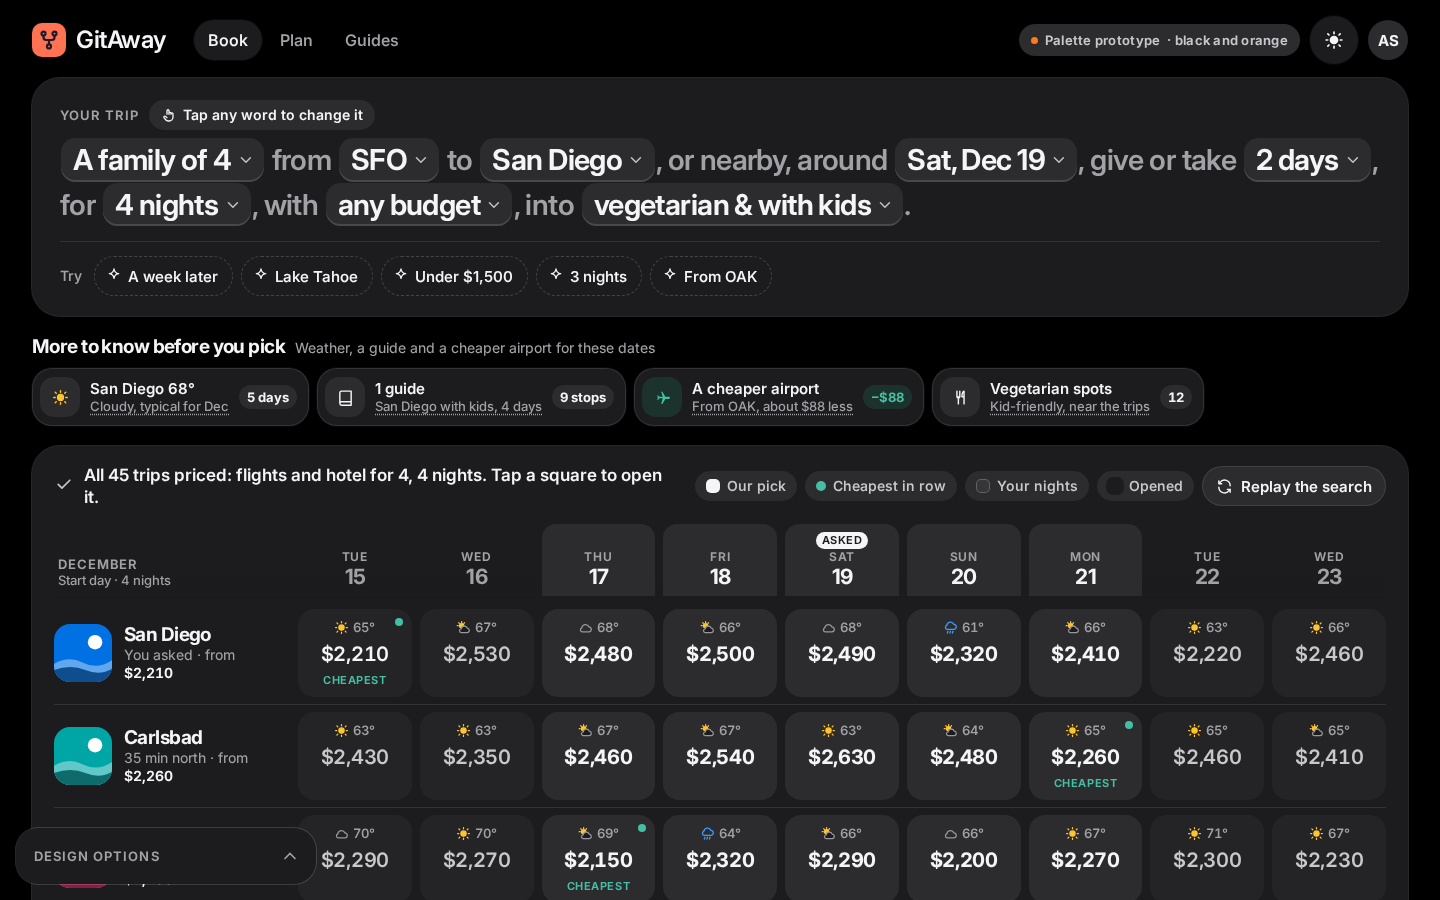
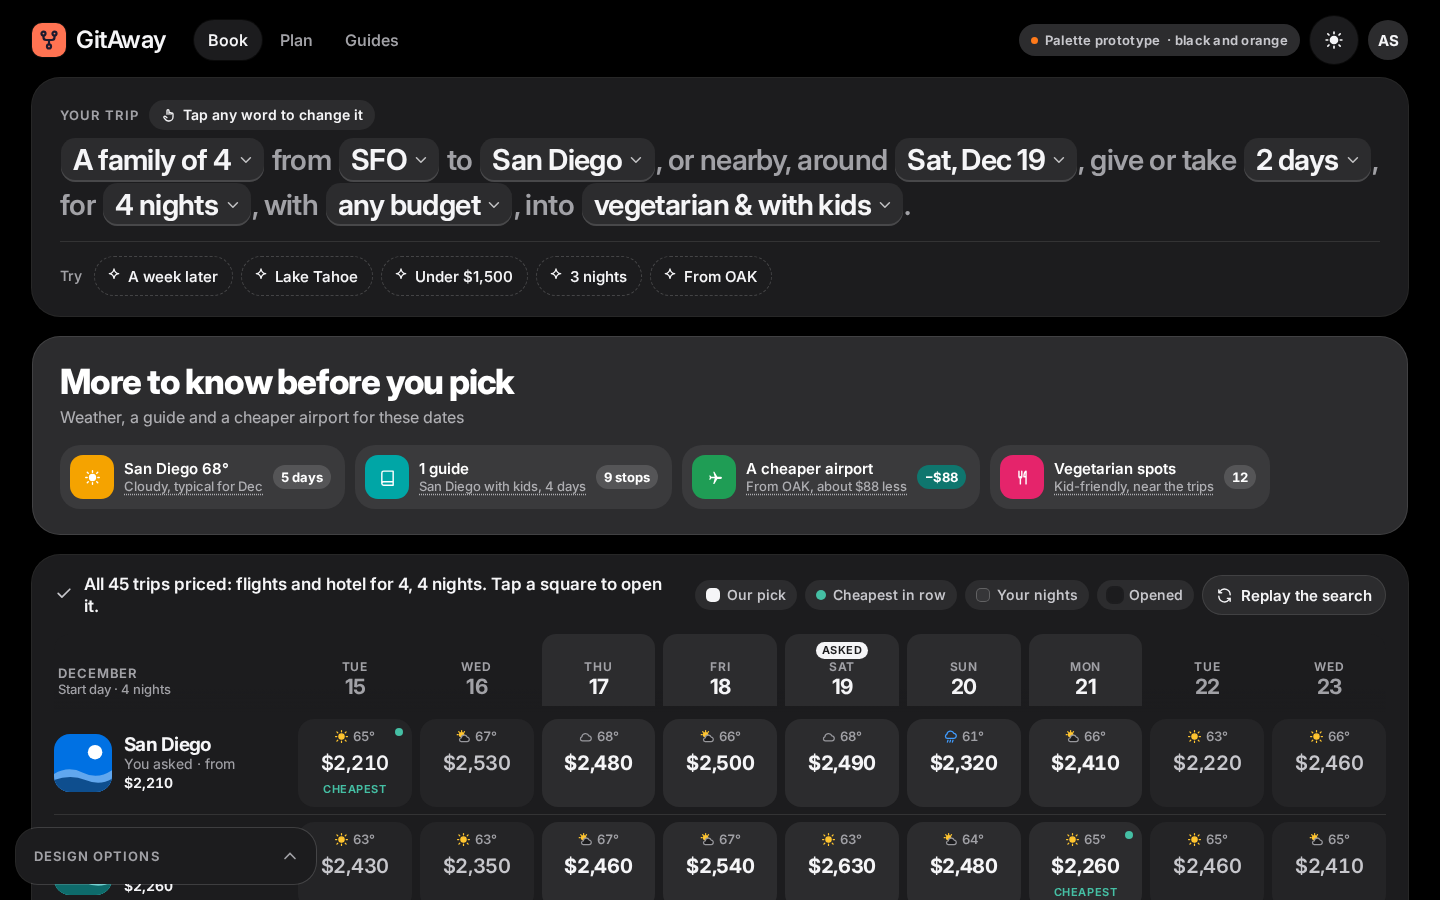
Palette prototype: Stage gives More to know before you pick a dark band

diff --git a/docs/design/palette-bo/index.html b/docs/design/palette-bo/index.html
@@ -1317,7 +1317,6 @@ footer.foot { margin-top: 26px; padding: 16px 18px; border-radius: 18px; backgro
 :root[data-look="stage"] .wk-rain svg { color: var(--wx-rain); }
 :root[data-look="stage"] .sq.pick .wxs svg { color: inherit; }
 :root[data-look="stage"] .sq.pick .wk-sun svg, :root[data-look="stage"] .sq.pick .wk-partly .ws { color: var(--wx-sun); }
-:root[data-look="stage"] .xc[data-kind="wx"] .ic { color: var(--wx-sun) !important; }
 :root[data-look="stage"] .seg i { box-shadow: inset 0 0 0 1px var(--line-2); }
 :root[data-look="stage"] .realcost { background: #1D1D1F; color: #F5F5F7; }
 :root[data-look="stage"] .realcost .eq .hot { color: #FF9A4D; }
@@ -1325,6 +1324,43 @@ footer.foot { margin-top: 26px; padding: 16px 18px; border-radius: 18px; backgro
 :root[data-look="stage"][data-theme="dark"] .realcost .eq .hot { color: #B84A00; }
 :root[data-look="stage"] .gal .cap, :root[data-look="stage"] .stage .cap { background: rgb(0 0 0 / .6); }
 :root[data-look="stage"] .picker .seg button { font-size: 13px; padding: 0 4px; }
+
+/* Stage: "More to know before you pick" is a dark band on the light page (Apple's contrasting section), the second thing you see after the search card.
+   Light: #1D1D1F panel; dark: a raised #2C2C2E panel with a hairline. Words: white 16.0 on #1D1D1F (13.0 on #2C2C2E); #A1A1A6 on #1D1D1F 6.5, on its tiles #2C2C2E 5.4; dark mode #AEAEB2 on its tiles #3A3A3C 5.1, on the panel 6.3;
+   the "−$88" badge white on #0F766E 5.5. Icon squares are vivid fills (non-text) with white icons. */
+:root[data-look="stage"] .xtra.sky { margin: 20px 0; padding: 28px 28px 26px; border-radius: 28px; background: #1D1D1F; gap: 18px; box-shadow: var(--sh2); }
+:root[data-look="stage"][data-theme="dark"] .xtra.sky { background: #2C2C2E; box-shadow: inset 0 0 0 1px rgb(255 255 255 / .1); }
+:root[data-look="stage"][data-chips] .xtra.sky .xhead { display: grid; grid-auto-flow: row; gap: 6px; flex: 1 1 100%; }
+:root[data-look="stage"] .xtra.sky .xhead b { color: #FFFFFF; font: 800 clamp(1.7rem, 2.4vw, 2.2rem)/1.05 var(--f-display); letter-spacing: -0.035em; }
+:root[data-look="stage"] .xtra.sky .xhead small { color: #A1A1A6; font-size: 16px; }
+:root[data-look="stage"] .xtra.sky .xchips { gap: 10px; }
+:root[data-look="stage"][data-chips] .xtra.sky .xc { min-height: 64px; padding: 10px 14px 10px 10px; border-radius: 20px; color: #FFFFFF; box-shadow: none;
+  transition: transform 420ms var(--spring), background-color var(--t-quick); }
+:root[data-look="stage"][data-chips] .xtra.sky .xc:not([aria-expanded="true"]) { background: #2C2C2E; }
+:root[data-look="stage"][data-theme="dark"][data-chips] .xtra.sky .xc:not([aria-expanded="true"]) { background: #3A3A3C; }
+:root[data-look="stage"][data-chips] .xtra.sky .xc:is(:hover, :focus-visible) { transform: translateY(-3px) scale(1.02); }
+:root[data-look="stage"][data-chips] .xtra.sky .xc:not([aria-expanded="true"]):hover { background: #3A3A3C; }
+:root[data-look="stage"][data-chips] .xtra.sky .xc:focus-visible { outline-color: #FFFFFF; }
+:root[data-look="stage"][data-chips] .xtra.sky .xc .tx small { color: #A1A1A6; }
+:root[data-look="stage"][data-theme="dark"][data-chips] .xtra.sky .xc .tx small, :root[data-look="stage"][data-theme="dark"] .xtra.sky .xhead small { color: #AEAEB2; }
+:root[data-look="stage"][data-chips] .xtra.sky .xc .ic { width: 44px; height: 44px; border-radius: 13px; color: #FFFFFF; background: #636366; }
+:root[data-look="stage"][data-chips] .xtra.sky .xc[data-kind="wx"] .ic { background: #F5A300; }
+:root[data-look="stage"][data-chips] .xtra.sky .xc[data-kind="guide"] .ic { background: #00A6A6; }
+:root[data-look="stage"][data-chips] .xtra.sky .xc[data-kind="oak"] .ic { background: #1F9D55; }
+:root[data-look="stage"][data-chips] .xtra.sky .xc[data-kind="food"] .ic { background: #E5246B; }
+:root[data-look="stage"][data-chips] .xtra.sky .xc[data-kind="drive"] .ic { background: #7D4CF0; }
+:root[data-look="stage"][data-chips] .xtra.sky .xc .ct { background: rgb(255 255 255 / .14); color: #FFFFFF; }
+:root[data-look="stage"][data-chips] .xtra.sky .xc.sig .ct { background: #0F766E; color: #FFFFFF; }
+:root[data-look="stage"][data-chips] .xtra.sky .xc[aria-expanded="true"] { background: #FFFFFF; color: #1D1D1F; }
+:root[data-look="stage"][data-chips] .xtra.sky .xc[aria-expanded="true"] .tx small { color: #6E6E73; opacity: 1; }
+:root[data-look="stage"][data-chips] .xtra.sky .xc[aria-expanded="true"] .ct { background: #F0F0F3; color: #1D1D1F; }
+@media (max-width: 760px) {
+  :root[data-look="stage"] .xtra.sky { padding: 22px 0 20px; border-radius: 24px; }
+  :root[data-look="stage"][data-chips] .xtra.sky .xhead { padding: 0 18px; }
+  :root[data-look="stage"] .xtra.sky .xhead b { font-size: 1.55rem; }
+  :root[data-look="stage"] .xtra.sky .xchips { margin: 0; padding: 4px 18px 6px; scroll-snap-type: x mandatory; scroll-padding: 0 18px; }
+  :root[data-look="stage"][data-chips] .xtra.sky .xc { scroll-snap-align: start; min-height: 64px; }
+}
 @media (max-width: 760px) { :root[data-look="stage"] .pband { min-height: 120px; padding: 18px 16px; } :root[data-look="stage"] .hname h3 { font-size: 28px; } }
 
 @media (prefers-reduced-motion: reduce) {
